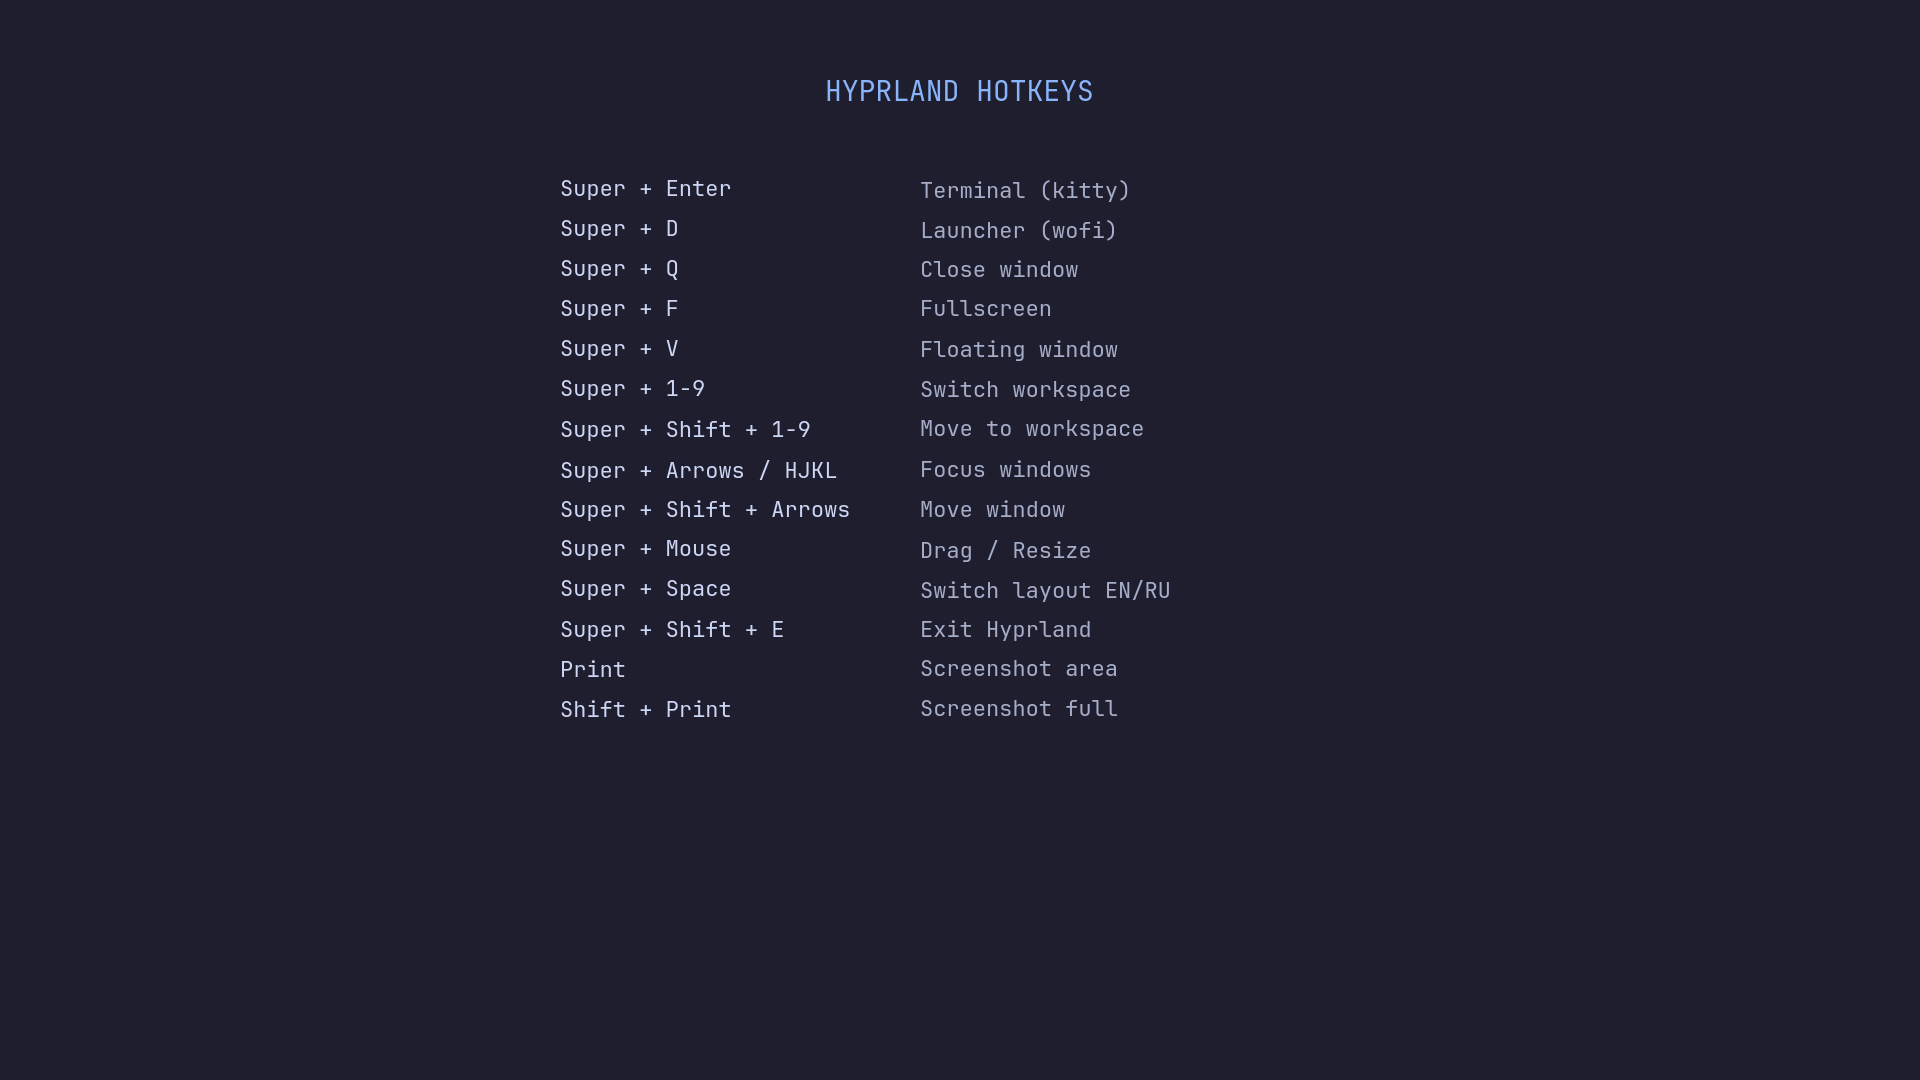
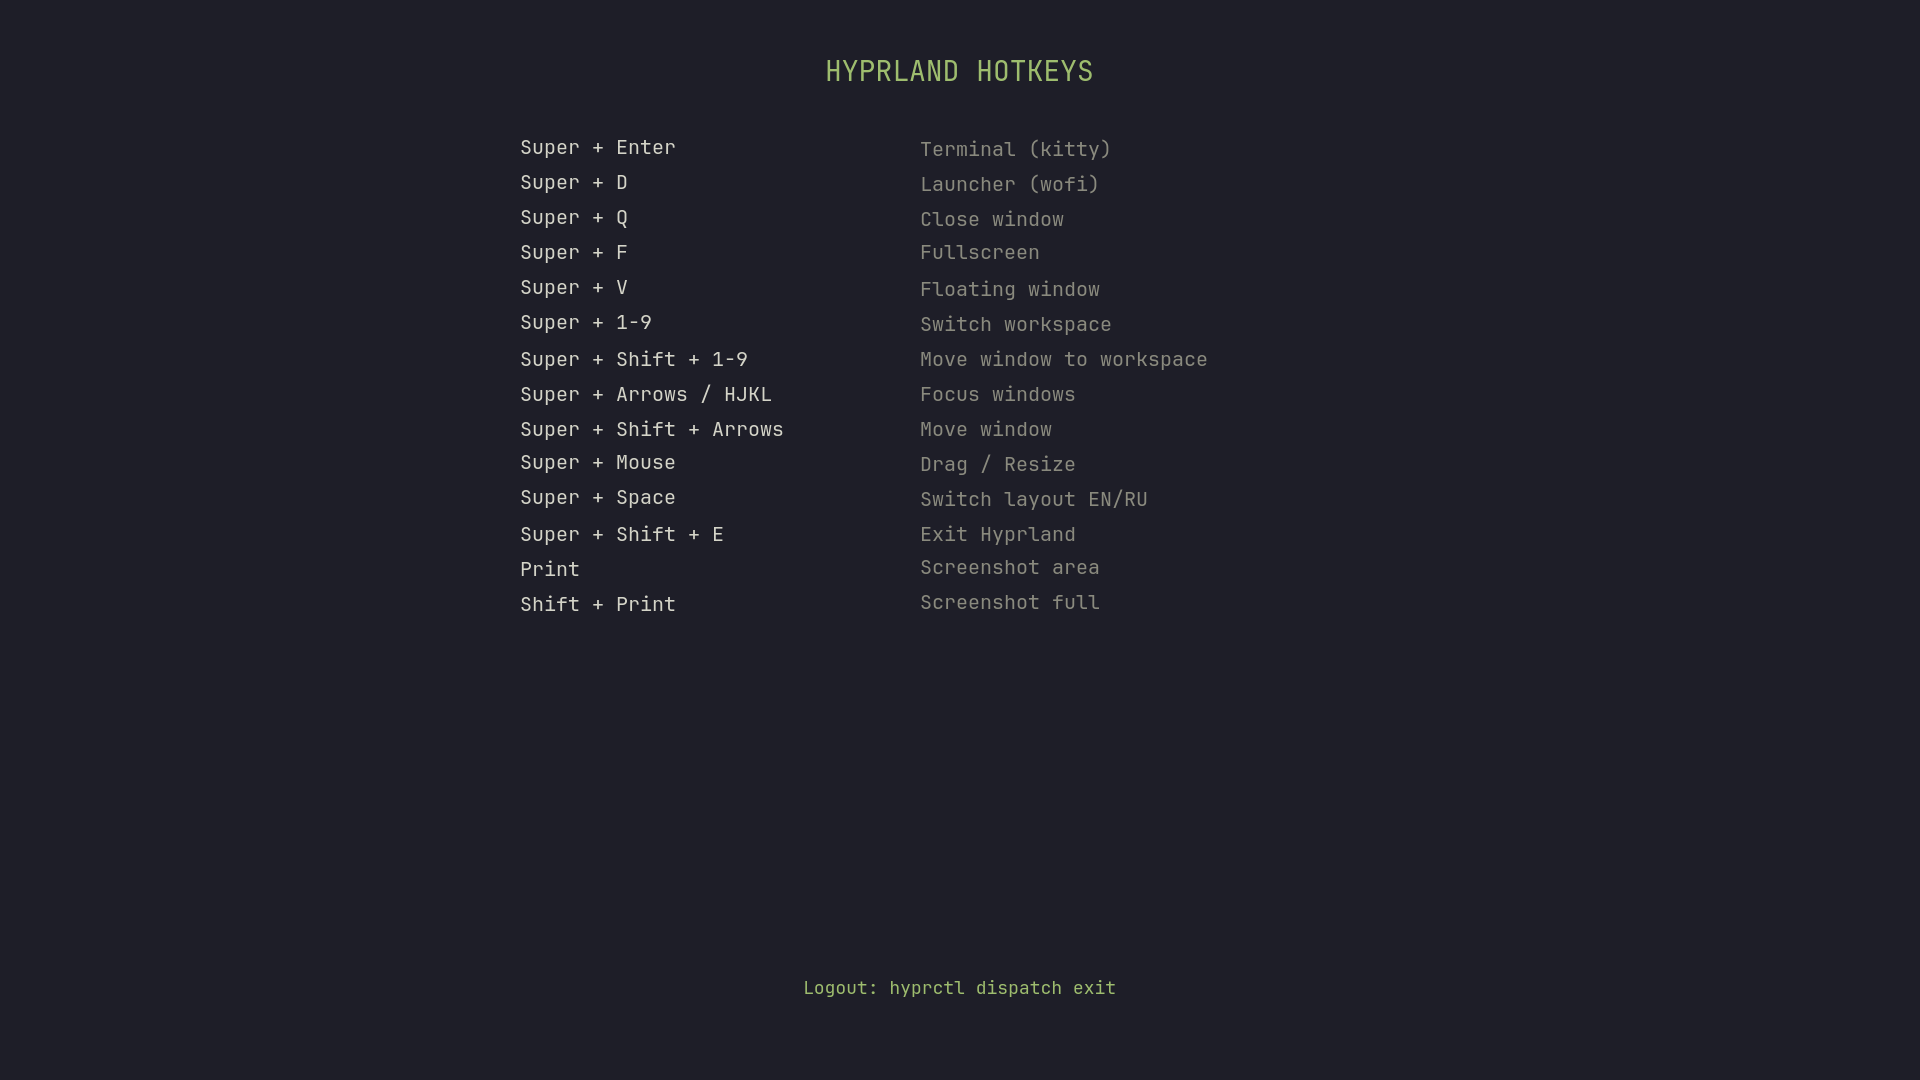
Add dunst notifications, move tray left, equal margins

diff --git a/waybar/.config/waybar/style.css b/waybar/.config/waybar/style.css
@@ -4,26 +4,26 @@
 }
 
 window#waybar {
-    background-color: rgba(30, 30, 46, 0.9);
-    color: #cdd6f4;
-    border-bottom: 2px solid rgba(100, 114, 125, 0.5);
+    background-color: rgba(30, 30, 40, 0.9);
+    color: #d4d4c8;
+    border-bottom: 2px solid rgba(158, 189, 110, 0.4);
 }
 
 #workspaces button {
     padding: 0 8px;
-    color: #cdd6f4;
+    color: #d4d4c8;
     background: transparent;
     border: none;
     border-radius: 0;
 }
 
 #workspaces button:hover {
-    background: rgba(255, 255, 255, 0.1);
+    background: rgba(158, 189, 110, 0.15);
 }
 
 #workspaces button.active {
-    color: #89b4fa;
-    border-bottom: 2px solid #89b4fa;
+    color: #9EBD6E;
+    border-bottom: 2px solid #9EBD6E;
 }
 
 #clock,
@@ -40,40 +40,40 @@ window#waybar {
 
 #cpu.warning,
 #memory.warning {
-    color: #f9e2af;
+    color: #C4B454;
 }
 
 #cpu.critical,
 #memory.critical {
-    color: #f38ba8;
+    color: #d4726a;
 }
 
 #temperature.critical {
-    color: #f38ba8;
+    color: #d4726a;
 }
 
 #battery.charging {
-    color: #a6e3a1;
+    color: #9EBD6E;
 }
 
 #battery.warning:not(.charging) {
-    color: #f9e2af;
+    color: #C4B454;
 }
 
 #battery.critical:not(.charging) {
-    color: #f38ba8;
+    color: #d4726a;
 }
 
 #pulseaudio.muted {
-    color: #6c7086;
+    color: #6c7070;
 }
 
 #bluetooth.connected {
-    color: #89b4fa;
+    color: #9EBD6E;
 }
 
 #network.disconnected {
-    color: #6c7086;
+    color: #6c7070;
 }
 
 #tray > .passive {

diff --git a/wofi/.config/wofi/style.css b/wofi/.config/wofi/style.css
@@ -1,16 +1,16 @@
 window {
     margin: 0px;
-    border: 2px solid #89b4fa;
+    border: 2px solid #9EBD6E;
     border-radius: 10px;
-    background-color: #1e1e2e;
+    background-color: #1e1e28;
 }
 
 #input {
     margin: 5px;
     border: none;
     border-radius: 5px;
-    color: #cdd6f4;
-    background-color: #313244;
+    color: #d4d4c8;
+    background-color: #2a2a36;
 }
 
 #inner-box {
@@ -27,14 +27,14 @@ window {
 
 #text {
     margin: 5px;
-    color: #cdd6f4;
+    color: #d4d4c8;
 }
 
 #entry:selected {
-    background-color: #313244;
+    background-color: #2a2a36;
     border-radius: 5px;
 }
 
 #entry:selected #text {
-    color: #89b4fa;
+    color: #9EBD6E;
 }

diff --git a/README.md b/README.md
@@ -9,6 +9,7 @@ dotfiles/
 ├── hypr/           # Hyprland window manager
 ├── waybar/         # Status bar
 ├── wofi/           # Application launcher
+├── dunst/          # Notifications
 ├── fish/           # Fish shell
 ├── nvim/           # Neovim (Lazy.nvim)
 ├── install.sh      # Installation script
